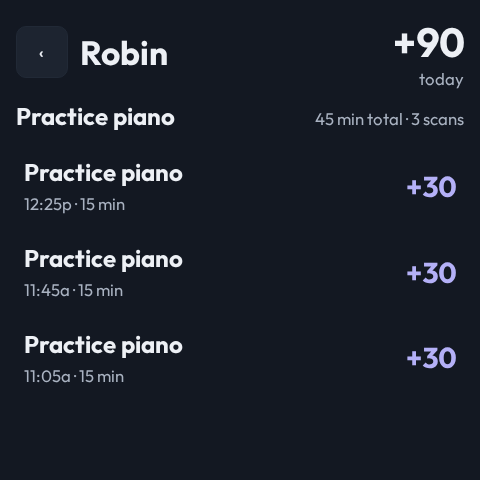
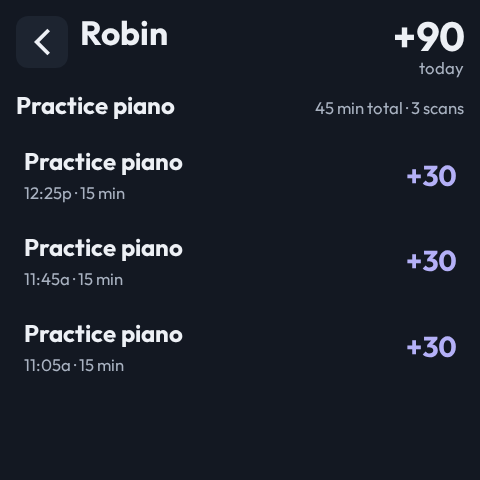
fix(points): enlarge Back chevron and top-align task header

diff --git a/packages/slatecast/src/platform/platform.css b/packages/slatecast/src/platform/platform.css
@@ -3217,13 +3217,16 @@ html[data-repaint="instant"]
 .kids-points-tasks-header {
   display: grid;
   grid-template-columns: auto minmax(0, 1fr) auto;
-  align-items: center;
+  align-items: start;
   gap: 12px;
   flex: none;
 }
-.kids-points-back {
+.platform .kids-points-back {
+  display: grid;
+  place-items: center;
   width: 52px;
   height: 52px;
+  padding: 0;
   border: 1px solid var(--border);
   border-radius: 12px;
   background: var(--surface);
@@ -3236,6 +3239,7 @@ html[data-repaint="instant"]
 .kids-points-tasks-header h2 {
   margin: 0;
   font-size: clamp(22px, 7cqmin, 48px);
+  line-height: 1;
   overflow: hidden;
   text-overflow: ellipsis;
   white-space: nowrap;
@@ -3249,6 +3253,7 @@ html[data-repaint="instant"]
 }
 .kids-points-tasks-header strong {
   font-size: clamp(28px, 8.5cqmin, 64px);
+  line-height: 1;
 }
 .kids-points-tasks-header p span {
   font-size: clamp(14px, 3.5cqmin, 24px);

diff --git a/packages/slatecast/src/platform/KidTasksToday.tsx b/packages/slatecast/src/platform/KidTasksToday.tsx
@@ -1,5 +1,6 @@
 import type { ContractData } from "@castkit/sdk/contracts"
 import { useRef, useState } from "preact/hooks"
+import { ICON_PATHS, Icon } from "../Icon.tsx"
 import { formatClockTime } from "../time.ts"
 import { formatPointsDelta } from "./kidsPointsLayout.ts"
 
@@ -155,7 +156,7 @@ export const KidTasksToday = ({
             }
           }}
         >
-          ‹
+          <Icon path={ICON_PATHS.chevronLeft} size="32px" />
         </button>
         <h2 title={kid.name}>{kid.name}</h2>
         <p>

diff --git a/packages/slatecast/src/Icon.tsx b/packages/slatecast/src/Icon.tsx
@@ -13,6 +13,7 @@
  */
 
 export const ICON_PATHS = {
+  chevronLeft: "M16 2 6 12l10 10 2-2-8-8 8-8-2-2z",
   previous: "M6 6h2v12H6V6zm12 0v12l-8.5-6L18 6z",
   play: "M8 5v14l11-7L8 5z",
   pause: "M6 5h4v14H6V5zm8 0h4v14h-4V5z",

diff --git a/docs/decisions/2026-10-09-task-header-top-aligns-name-and-total.md b/docs/decisions/2026-10-09-task-header-top-aligns-name-and-total.md
@@ -1,0 +1,29 @@
+# Task header top-aligns name and total
+
+Status: Accepted
+Date: 2026-10-09
+Type: Display presentation
+Supersedes: None
+Superseded by: None
+
+## Decision
+
+Keep the daily-task Back button for now. Draw its chevron as an explicit 32px SVG in the existing 52px touch target, using the shared icon system. Top-align the child name and earned total, including the selected-task scan header. The secondary today label does not determine the name's alignment.
+
+## Context
+
+The generic platform button font overrode the chevron's intended size, making its text glyph tiny. Centering the child name against a two-line points block placed the name below the total's top edge.
+
+## Why
+
+An explicit icon stays readable regardless of button typography or installed fonts. Aligned top edges make the header coherent while keeping its total and secondary label distinct.
+
+## Evidence
+
+Owner, T3 Code chat `8b967f7d-a062-4f5a-9a56-bb863ff12bca`, 2026-10-09:
+
+> We can keep it for now, but look how small that chevron is.
+
+> I think they need to be top-aligned to look right.
+
+Fixture renders: [before](../images/task-header/before.png), [aligned summary](../images/task-totals/summary.png), [aligned scan history](../images/task-totals/scans.png).

diff --git a/docs/decisions/README.md b/docs/decisions/README.md
@@ -1,5 +1,7 @@
 # CastKit decision records
 
+- [2026-10-09: Task header top-aligns name and total](2026-10-09-task-header-top-aligns-name-and-total.md)
+
 - [2026-10-08: Task totals before scan history](2026-10-08-task-totals-before-scan-history.md)
 
 - [2026-10-08: Count-up timers lead with total minutes](2026-10-08-count-up-timers-lead-with-total-minutes.md)
